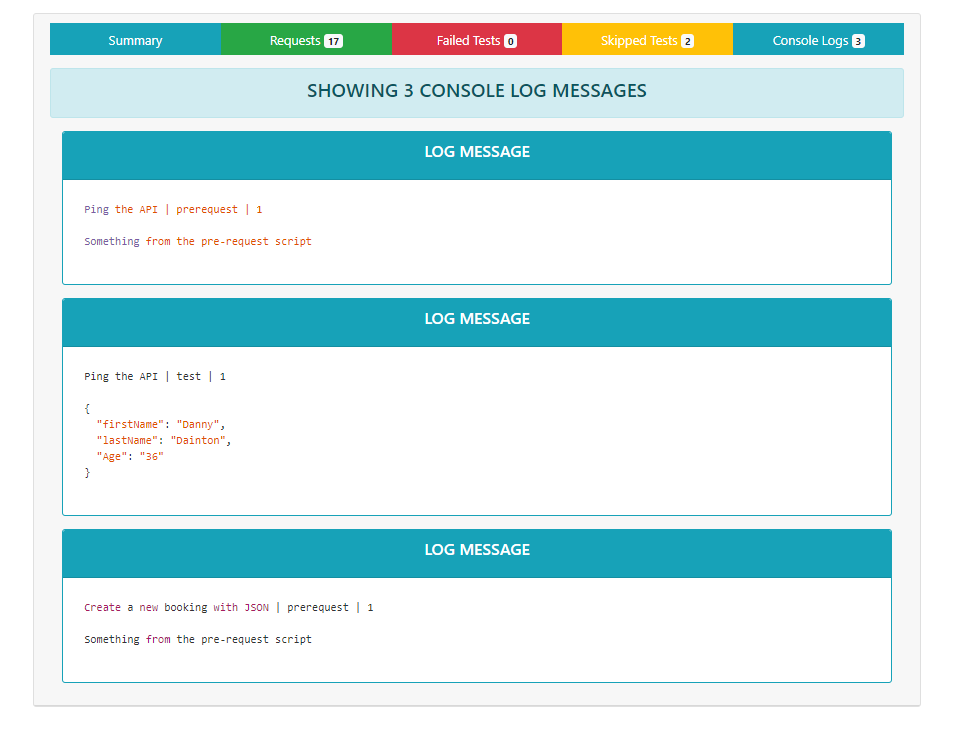
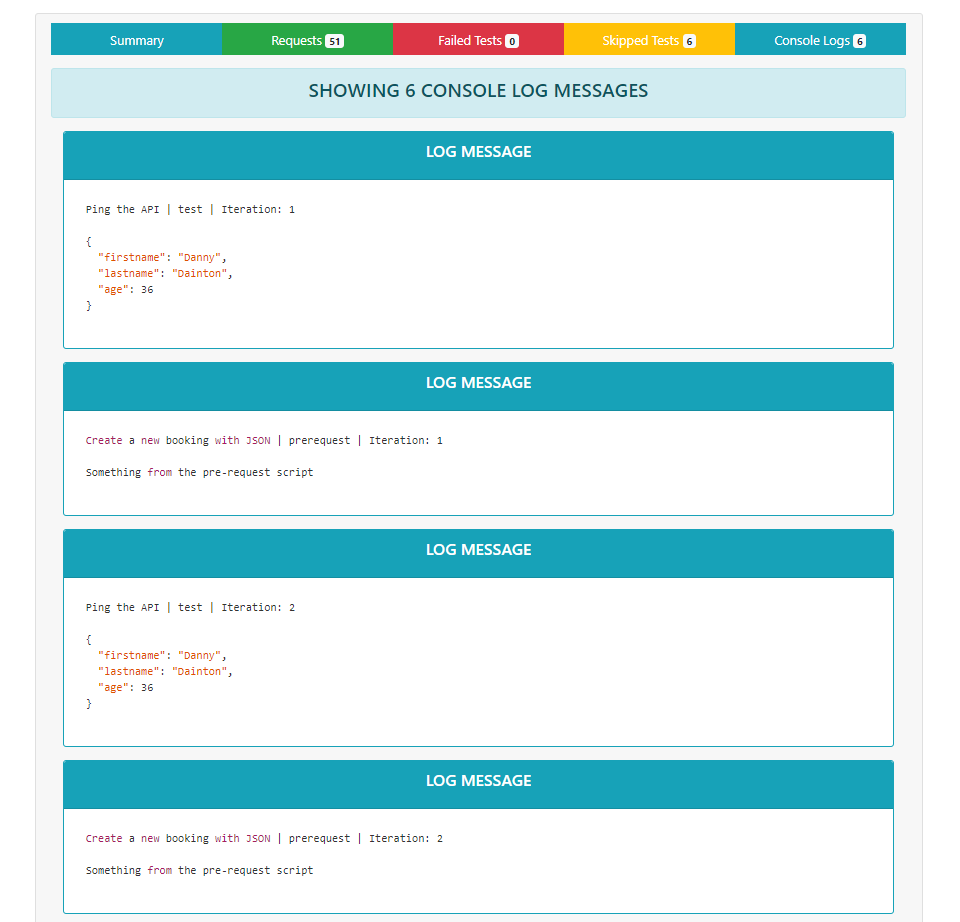
Each request card is now collapsible on the default template

diff --git a/README.md b/README.md
@@ -3,6 +3,7 @@
 [![Build Status](https://travis-ci.org/DannyDainton/newman-reporter-htmlextra.svg?branch=master)](https://travis-ci.org/DannyDainton/newman-reporter-htmlextra)
 [![NPM Version](https://img.shields.io/npm/v/newman-reporter-htmlextra.svg?style=flat-square)](https://www.npmjs.com/package/newman-reporter-htmlextra)
 [![NPM Weekly Downloads](https://img.shields.io/npm/dw/newman-reporter-htmlextra.svg?style=flat-square)](https://www.npmjs.com/package/newman-reporter-htmlextra)
+[![NPM Downloads](https://img.shields.io/npm/dt/newman-reporter-htmlextra.svg?style=flat-square)](https://www.npmjs.com/package/newman-reporter-htmlextra)
 
 A [Newman](https://github.com/postmanlabs/newman) HTML reporter that has been extended to include the separation of the iteration runs so these are no longer aggregated together and also some additional handlebars helpers to enable users to create better custom templates. This reporter comes with a default dashboard style template, that can be used to show the different changes, such as the `Skipped Tests` - This can be seen in all the example images.
 
@@ -34,7 +35,7 @@ A [Newman](https://github.com/postmanlabs/newman) HTML reporter that has been ex
 
 ![Skipped View](./examples/Skipped_View.PNG)
 
-This is the first attempt to expose any `console.log` statements that are really useful to have in your `Requests`. The event from Newman doesn't contain a lot of detail about the request that it was part of and this will involve, in it's current state a horrible hacky fix to map things together. In the meantime, the Postman `pm.info` function provides these for you and can just be added to the `console.log` statement, as workaround. Something like `${pm.info.requestName} | ${pm.info.eventName} | ${pm.info.iteration + 1}` will log out the missing event information.
+This is the first attempt to expose any `console.log` statements that are really useful to have in your `Requests`. The event from Newman doesn't contain a lot of detail about the request that it was part of and this will involve, in it's current state a horrible hacky fix to map things together. In the meantime, the Postman `pm.info` function provides these for you and can just be added to the `console.log` statement, as workaround. Something like `${pm.info.requestName} | ${pm.info.eventName} | Interation: ${pm.info.iteration + 1}` will log out the missing event information.
 
 If the collection contains Console Logs, a new tab will appear, that will show all the details. This information is displayed in a similar way that you may have seen on the `Failed Tests` and `Skipped Tests`.
 

diff --git a/CHANGELOG.md b/CHANGELOG.md
@@ -7,6 +7,15 @@ and this project adheres to [Semantic Versioning](http://semver.org/).
 
 -----------------------------------------------------------------------
 
+## [1.4.1] - 2019-02-12
+
+### Changed
+
+- Updated the default template to allow each request card to be collapsible
+- Included some tooltips for the Summary page tabs to make it clearer that these are clickable buttons  
+
+-----------------------------------------------------------------------
+
 ## [1.4.0] - 2019-01-25
 
 ### Added
